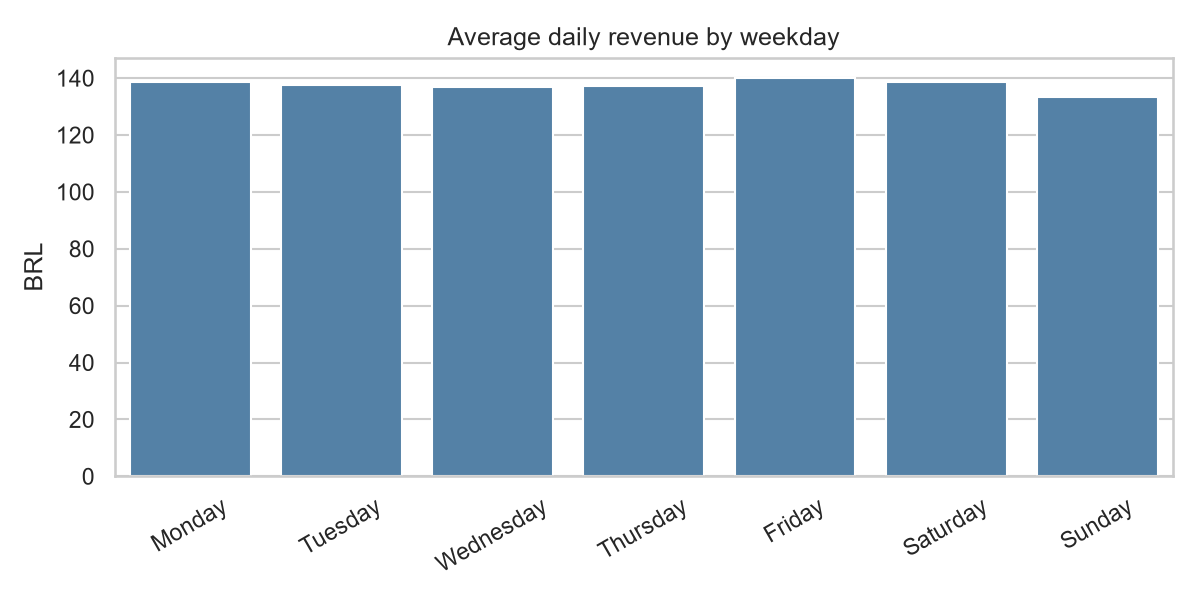
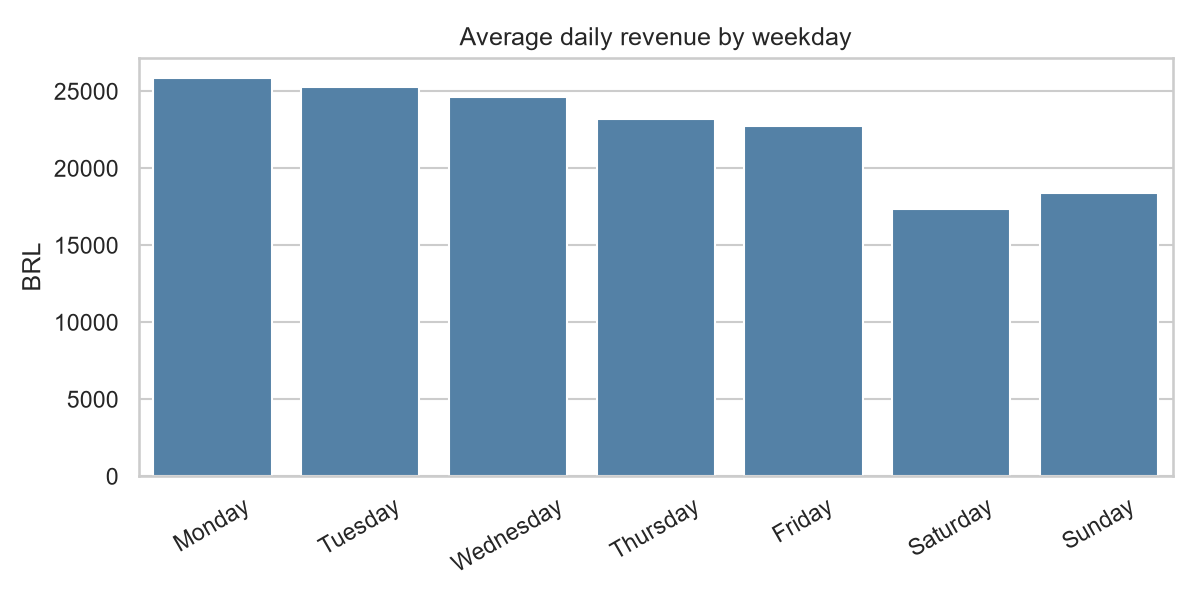
Add SQL database build and queries

diff --git a/src/build_db.py b/src/build_db.py
@@ -1,0 +1,173 @@
+"""Phase 7: build the SQLite star-schema database from the cleaned CSVs."""
+import sqlite3
+from pathlib import Path
+import pandas as pd
+
+ROOT = Path(__file__).resolve().parent.parent
+PROC = ROOT / "data" / "processed"
+DB_PATH = ROOT / "database" / "olist.db"
+DB_PATH.parent.mkdir(exist_ok=True)
+
+SCHEMA = """
+CREATE TABLE dim_date (
+    date TEXT PRIMARY KEY, year INTEGER NOT NULL, month INTEGER NOT NULL,
+    day INTEGER NOT NULL, month_name TEXT NOT NULL, year_month TEXT NOT NULL,
+    weekday_num INTEGER NOT NULL, weekday_name TEXT NOT NULL, is_weekend INTEGER NOT NULL
+);
+CREATE TABLE dim_customers (
+    customer_id TEXT PRIMARY KEY, customer_unique_id TEXT NOT NULL,
+    customer_zip_code_prefix INTEGER, customer_city TEXT, customer_state TEXT
+);
+CREATE TABLE dim_sellers (
+    seller_id TEXT PRIMARY KEY, seller_zip_code_prefix INTEGER,
+    seller_city TEXT, seller_state TEXT
+);
+CREATE TABLE dim_products (
+    product_id TEXT PRIMARY KEY, category TEXT NOT NULL, product_category_name TEXT,
+    product_name_length REAL, product_description_length REAL, product_photos_qty REAL,
+    product_weight_g REAL, product_length_cm REAL, product_height_cm REAL, product_width_cm REAL
+);
+CREATE TABLE dim_geo_zip (
+    zip_code_prefix INTEGER PRIMARY KEY, lat REAL, lng REAL, city TEXT, state TEXT
+);
+CREATE TABLE fact_orders (
+    order_id TEXT PRIMARY KEY,
+    customer_id TEXT NOT NULL,
+    order_status TEXT NOT NULL,
+    purchase_date TEXT NOT NULL,
+    order_purchase_timestamp TEXT, order_approved_at TEXT,
+    order_delivered_carrier_date TEXT, order_delivered_customer_date TEXT,
+    order_estimated_delivery_date TEXT,
+    delivery_days REAL, estimated_days REAL, delay_days REAL, is_late INTEGER,
+    is_valid_sale INTEGER NOT NULL,
+    n_items INTEGER, n_products INTEGER, n_sellers INTEGER,
+    product_revenue REAL, freight_total REAL, valid_revenue REAL,
+    payment_total REAL, payment_rows INTEGER, max_installments INTEGER, main_payment_type TEXT,
+    review_score INTEGER, has_comment INTEGER, is_high_value_outlier INTEGER,
+    FOREIGN KEY (customer_id) REFERENCES dim_customers(customer_id),
+    FOREIGN KEY (purchase_date) REFERENCES dim_date(date)
+);
+CREATE TABLE fact_order_items (
+    order_id TEXT NOT NULL, order_item_id INTEGER NOT NULL,
+    product_id TEXT NOT NULL, seller_id TEXT NOT NULL,
+    shipping_limit_date TEXT, price REAL NOT NULL, freight_value REAL NOT NULL,
+    PRIMARY KEY (order_id, order_item_id),
+    FOREIGN KEY (order_id) REFERENCES fact_orders(order_id),
+    FOREIGN KEY (product_id) REFERENCES dim_products(product_id),
+    FOREIGN KEY (seller_id) REFERENCES dim_sellers(seller_id)
+);
+CREATE INDEX idx_orders_date ON fact_orders(purchase_date);
+CREATE INDEX idx_orders_customer ON fact_orders(customer_id);
+CREATE INDEX idx_items_product ON fact_order_items(product_id);
+CREATE INDEX idx_items_seller ON fact_order_items(seller_id);
+CREATE INDEX idx_customers_unique ON dim_customers(customer_unique_id);
+CREATE INDEX idx_customers_state ON dim_customers(customer_state);
+"""
+
+
+def make_dim_date():
+    d = pd.Series(pd.date_range("2016-09-01", "2018-10-31"))
+    return pd.DataFrame({
+        "date": d.dt.strftime("%Y-%m-%d"),
+        "year": d.dt.year,
+        "month": d.dt.month,
+        "day": d.dt.day,
+        "month_name": d.dt.month_name(),
+        "year_month": d.dt.strftime("%Y-%m"),
+        "weekday_num": d.dt.dayofweek + 1,          # Monday = 1
+        "weekday_name": d.dt.day_name(),
+        "is_weekend": (d.dt.dayofweek >= 5).astype(int),
+    })
+
+
+def to_flag(series):
+    """True/False/blank -> 1/0/None (SQLite has no real boolean type)."""
+    return series.map(lambda v: None if pd.isna(v) else int(str(v) == "True"))
+
+
+def load(conn, table, df):
+    cols = list(df.columns)
+    sql = f"INSERT INTO {table} ({', '.join(cols)}) VALUES ({', '.join('?' * len(cols))})"
+    rows = [tuple(None if pd.isna(v) else v for v in r)
+            for r in df.itertuples(index=False, name=None)]
+    conn.executemany(sql, rows)
+    print(f"   {table:17s} {len(rows):>9,} rows")
+
+
+def check(label, ok):
+    print(("PASS  " if ok else "FAIL  ") + label)
+
+
+def main():
+    if DB_PATH.exists():
+        DB_PATH.unlink()                      # rebuild from scratch each time
+    conn = sqlite3.connect(DB_PATH)
+    conn.execute("PRAGMA foreign_keys = ON")  # make SQLite ENFORCE foreign keys
+    conn.executescript(SCHEMA)
+
+    customers = pd.read_csv(PROC / "dim_customers.csv")
+    sellers = pd.read_csv(PROC / "dim_sellers.csv")
+    products = pd.read_csv(PROC / "dim_products.csv")
+    geo = pd.read_csv(PROC / "dim_geo_zip.csv").rename(
+        columns={"geolocation_zip_code_prefix": "zip_code_prefix"})
+    orders = pd.read_csv(PROC / "fact_orders.csv")
+    items = pd.read_csv(PROC / "fact_order_items.csv")
+
+    for col in ["is_valid_sale", "has_comment", "is_high_value_outlier"]:
+        orders[col] = to_flag(orders[col])
+
+    order_cols = ["order_id", "customer_id", "order_status", "purchase_date",
+                  "order_purchase_timestamp", "order_approved_at",
+                  "order_delivered_carrier_date", "order_delivered_customer_date",
+                  "order_estimated_delivery_date", "delivery_days", "estimated_days",
+                  "delay_days", "is_late", "is_valid_sale", "n_items", "n_products",
+                  "n_sellers", "product_revenue", "freight_total", "valid_revenue",
+                  "payment_total", "payment_rows", "max_installments", "main_payment_type",
+                  "review_score", "has_comment", "is_high_value_outlier"]
+    item_cols = ["order_id", "order_item_id", "product_id", "seller_id",
+                 "shipping_limit_date", "price", "freight_value"]
+    product_cols = ["product_id", "category", "product_category_name",
+                    "product_name_length", "product_description_length", "product_photos_qty",
+                    "product_weight_g", "product_length_cm", "product_height_cm",
+                    "product_width_cm"]
+
+    print("Loading (parents first, so foreign keys are satisfied):")
+    load(conn, "dim_date", make_dim_date())
+    load(conn, "dim_customers", customers[["customer_id", "customer_unique_id",
+                                           "customer_zip_code_prefix", "customer_city",
+                                           "customer_state"]])
+    load(conn, "dim_sellers", sellers)
+    load(conn, "dim_products", products[product_cols])
+    load(conn, "dim_geo_zip", geo[["zip_code_prefix", "lat", "lng", "city", "state"]])
+    load(conn, "fact_orders", orders[order_cols])
+    load(conn, "fact_order_items", items[item_cols])
+    conn.commit()
+
+    print("\n=== VALIDATION ===")
+    q = lambda sql: conn.execute(sql).fetchone()[0]
+    check("fact_orders row count matches CSV", q("SELECT COUNT(*) FROM fact_orders") == len(orders))
+    check("fact_order_items row count matches CSV",
+          q("SELECT COUNT(*) FROM fact_order_items") == len(items))
+    check("dim_customers row count matches CSV",
+          q("SELECT COUNT(*) FROM dim_customers") == len(customers))
+    check("dim_products row count matches CSV",
+          q("SELECT COUNT(*) FROM dim_products") == len(products))
+    check("no foreign key violations", conn.execute("PRAGMA foreign_key_check").fetchall() == [])
+    check("SQLite integrity_check is ok", q("PRAGMA integrity_check") == "ok")
+    pandas_rev = orders["valid_revenue"].sum()
+    check("valid revenue in SQL == pandas (within 0.01 BRL)",
+          abs(q("SELECT SUM(valid_revenue) FROM fact_orders") - pandas_rev) < 0.01)
+    check("item prices joined to orders == valid revenue (join did not duplicate money)",
+          abs(q("""SELECT SUM(i.price) FROM fact_order_items i
+                   JOIN fact_orders o ON o.order_id = i.order_id
+                   WHERE o.is_valid_sale = 1""") - pandas_rev) < 0.01)
+    check("joining items to orders keeps every item exactly once",
+          q("""SELECT COUNT(*) FROM fact_order_items i
+               JOIN fact_orders o ON o.order_id = i.order_id""") == len(items))
+    print(f"\nSQL valid revenue: {q('SELECT SUM(valid_revenue) FROM fact_orders'):,.2f} BRL")
+    print(f"Database file: {DB_PATH}")
+    conn.close()
+
+
+if __name__ == "__main__":
+    main()

diff --git a/src/run_queries.py b/src/run_queries.py
@@ -1,0 +1,98 @@
+"""Phase 7: run practice SQL queries from Python."""
+import sqlite3
+from pathlib import Path
+import pandas as pd
+
+DB_PATH = Path(__file__).resolve().parent.parent / "database" / "olist.db"
+
+QUERIES = {
+"1. SELECT + WHERE + ORDER BY + LIMIT: 5 biggest valid orders": """
+    SELECT order_id, order_status, n_items, product_revenue
+    FROM fact_orders
+    WHERE is_valid_sale = 1
+    ORDER BY product_revenue DESC
+    LIMIT 5;
+""",
+"2. Aggregates: KPIs (expect 98,199 orders | 13,494,400.74 | AOV 137.42)": """
+    SELECT COUNT(*) AS orders,
+           ROUND(SUM(valid_revenue), 2) AS revenue,
+           ROUND(AVG(valid_revenue), 2) AS avg_order_value
+    FROM fact_orders
+    WHERE is_valid_sale = 1 AND n_items > 0;
+""",
+"3. GROUP BY + JOIN dim_date: monthly revenue (expect 2017-11: 7,421 orders, ~1,003,862)": """
+    SELECT d.year_month, COUNT(*) AS orders, ROUND(SUM(o.valid_revenue), 0) AS revenue
+    FROM fact_orders o
+    JOIN dim_date d ON d.date = o.purchase_date
+    WHERE o.is_valid_sale = 1 AND o.n_items > 0
+    GROUP BY d.year_month
+    ORDER BY d.year_month;
+""",
+"4. Three-table JOIN: top categories (expect health_beauty ~1,255,695.1 | 9,634 units)": """
+    SELECT p.category, COUNT(*) AS units, ROUND(SUM(i.price), 1) AS revenue
+    FROM fact_order_items i
+    JOIN dim_products p ON p.product_id = i.product_id
+    JOIN fact_orders o ON o.order_id = i.order_id
+    WHERE o.is_valid_sale = 1
+    GROUP BY p.category
+    ORDER BY revenue DESC
+    LIMIT 10;
+""",
+"5. JOIN dim_customers: revenue by state (expect SP ~5,163,867.2 | 41,125 orders)": """
+    SELECT c.customer_state, COUNT(*) AS orders, ROUND(SUM(o.valid_revenue), 1) AS revenue
+    FROM fact_orders o
+    JOIN dim_customers c ON c.customer_id = o.customer_id
+    WHERE o.is_valid_sale = 1 AND o.n_items > 0
+    GROUP BY c.customer_state
+    ORDER BY revenue DESC
+    LIMIT 10;
+""",
+"6. Subquery: valid orders worth more than the average order": """
+    SELECT COUNT(*) AS orders_above_average
+    FROM fact_orders
+    WHERE is_valid_sale = 1
+      AND valid_revenue > (SELECT AVG(valid_revenue)
+                           FROM fact_orders
+                           WHERE is_valid_sale = 1 AND n_items > 0);
+""",
+"7. GROUP BY + HAVING in a subquery: repeat customers (expect 2,887)": """
+    SELECT COUNT(*) AS repeat_customers
+    FROM (SELECT c.customer_unique_id
+          FROM fact_orders o
+          JOIN dim_customers c ON c.customer_id = o.customer_id
+          WHERE o.is_valid_sale = 1 AND o.n_items > 0
+          GROUP BY c.customer_unique_id
+          HAVING COUNT(*) > 1);
+""",
+"8. Delivery vs reviews (expect 4.29 on time | 2.57 late)": """
+    SELECT is_late, COUNT(*) AS orders, ROUND(AVG(review_score), 2) AS avg_review
+    FROM fact_orders
+    WHERE is_valid_sale = 1 AND n_items > 0
+      AND review_score IS NOT NULL AND is_late IS NOT NULL
+    GROUP BY is_late;
+""",
+"9. Average DAILY revenue by weekday (expect Monday ~25,886 | Saturday ~17,385)": """
+    SELECT d.weekday_name, ROUND(AVG(daily.revenue), 0) AS avg_daily_revenue
+    FROM (SELECT purchase_date, SUM(valid_revenue) AS revenue
+          FROM fact_orders
+          WHERE is_valid_sale = 1 AND n_items > 0
+            AND purchase_date BETWEEN '2017-01-05' AND '2018-08-20'
+          GROUP BY purchase_date) AS daily
+    JOIN dim_date d ON d.date = daily.purchase_date
+    GROUP BY d.weekday_num, d.weekday_name
+    ORDER BY d.weekday_num;
+""",
+"10. The join trap in SQL: payments counted once vs after joining items": """
+    SELECT
+      (SELECT ROUND(SUM(payment_total), 2) FROM fact_orders) AS correct_payments,
+      (SELECT ROUND(SUM(o.payment_total), 2)
+       FROM fact_orders o JOIN fact_order_items i ON i.order_id = o.order_id) AS after_join_with_items;
+""",
+}
+
+conn = sqlite3.connect(DB_PATH)
+for title, sql in QUERIES.items():
+    print("=" * 78)
+    print(title)
+    print(pd.read_sql_query(sql, conn).to_string(index=False))
+conn.close()

diff --git a/src/clean_data.py b/src/clean_data.py
@@ -137,6 +137,9 @@ def clean_geo():
         state=("geolocation_state", lambda s: s.mode().iat[0]),
     ).reset_index()
 
+def same_money(a, b):
+    return abs(a - b) < 0.01
+
 
 def main():
     print("Orders:");      orders = clean_orders()
@@ -195,12 +198,12 @@ def main():
     check("fact_orders: one row per order, no duplicates",
           len(fact) == len(orders) and fact["order_id"].is_unique)
     check("fact_orders: product revenue == sum of raw item prices",
-          np.isclose(fact["product_revenue"].sum(), items["price"].sum()))
+          same_money(fact["product_revenue"].sum(), items["price"].sum()))
     check("fact_orders: payment total == sum of raw payments",
-          np.isclose(fact["payment_total"].sum(), raw_pay_total))
+          same_money(fact["payment_total"].sum(), raw_pay_total))
     check("fact_items: same row count as raw items", len(fact_items) == len(items))
     check("fact_items: price total unchanged after joins",
-          np.isclose(fact_items["price"].sum(), items["price"].sum()))
+          same_money(fact_items["price"].sum(), items["price"].sum()))
     check("fact_items: no duplicate (order_id, order_item_id)",
           not fact_items.duplicated(["order_id", "order_item_id"]).any())
     check("no missing purchase dates", fact["purchase_date"].notna().all())

diff --git a/src/eda.py b/src/eda.py
@@ -74,7 +74,9 @@ print(f"\nTop 5 revenue days:\n{daily.sort_values(ascending=False).head(5).round
 # ===== 4. WEEKDAY AND HOUR PATTERNS =====
 print("\n=== 4. WEEKDAY / HOUR ===")
 order_days = ["Monday", "Tuesday", "Wednesday", "Thursday", "Friday", "Saturday", "Sunday"]
-dow = d.groupby(d["purchase_date"].dt.day_name())["product_revenue"].mean().reindex(order_days)
+daily_df = daily.rename("revenue").reset_index()
+daily_df["weekday"] = daily_df["purchase_date"].dt.day_name()
+dow = daily_df.groupby("weekday")["revenue"].mean().reindex(order_days)
 print("Average revenue per day, by weekday:\n", dow.round(0).to_string())
 fig, ax = plt.subplots(figsize=(8, 4))
 sns.barplot(x=dow.index, y=dow.values, ax=ax, color="steelblue")
